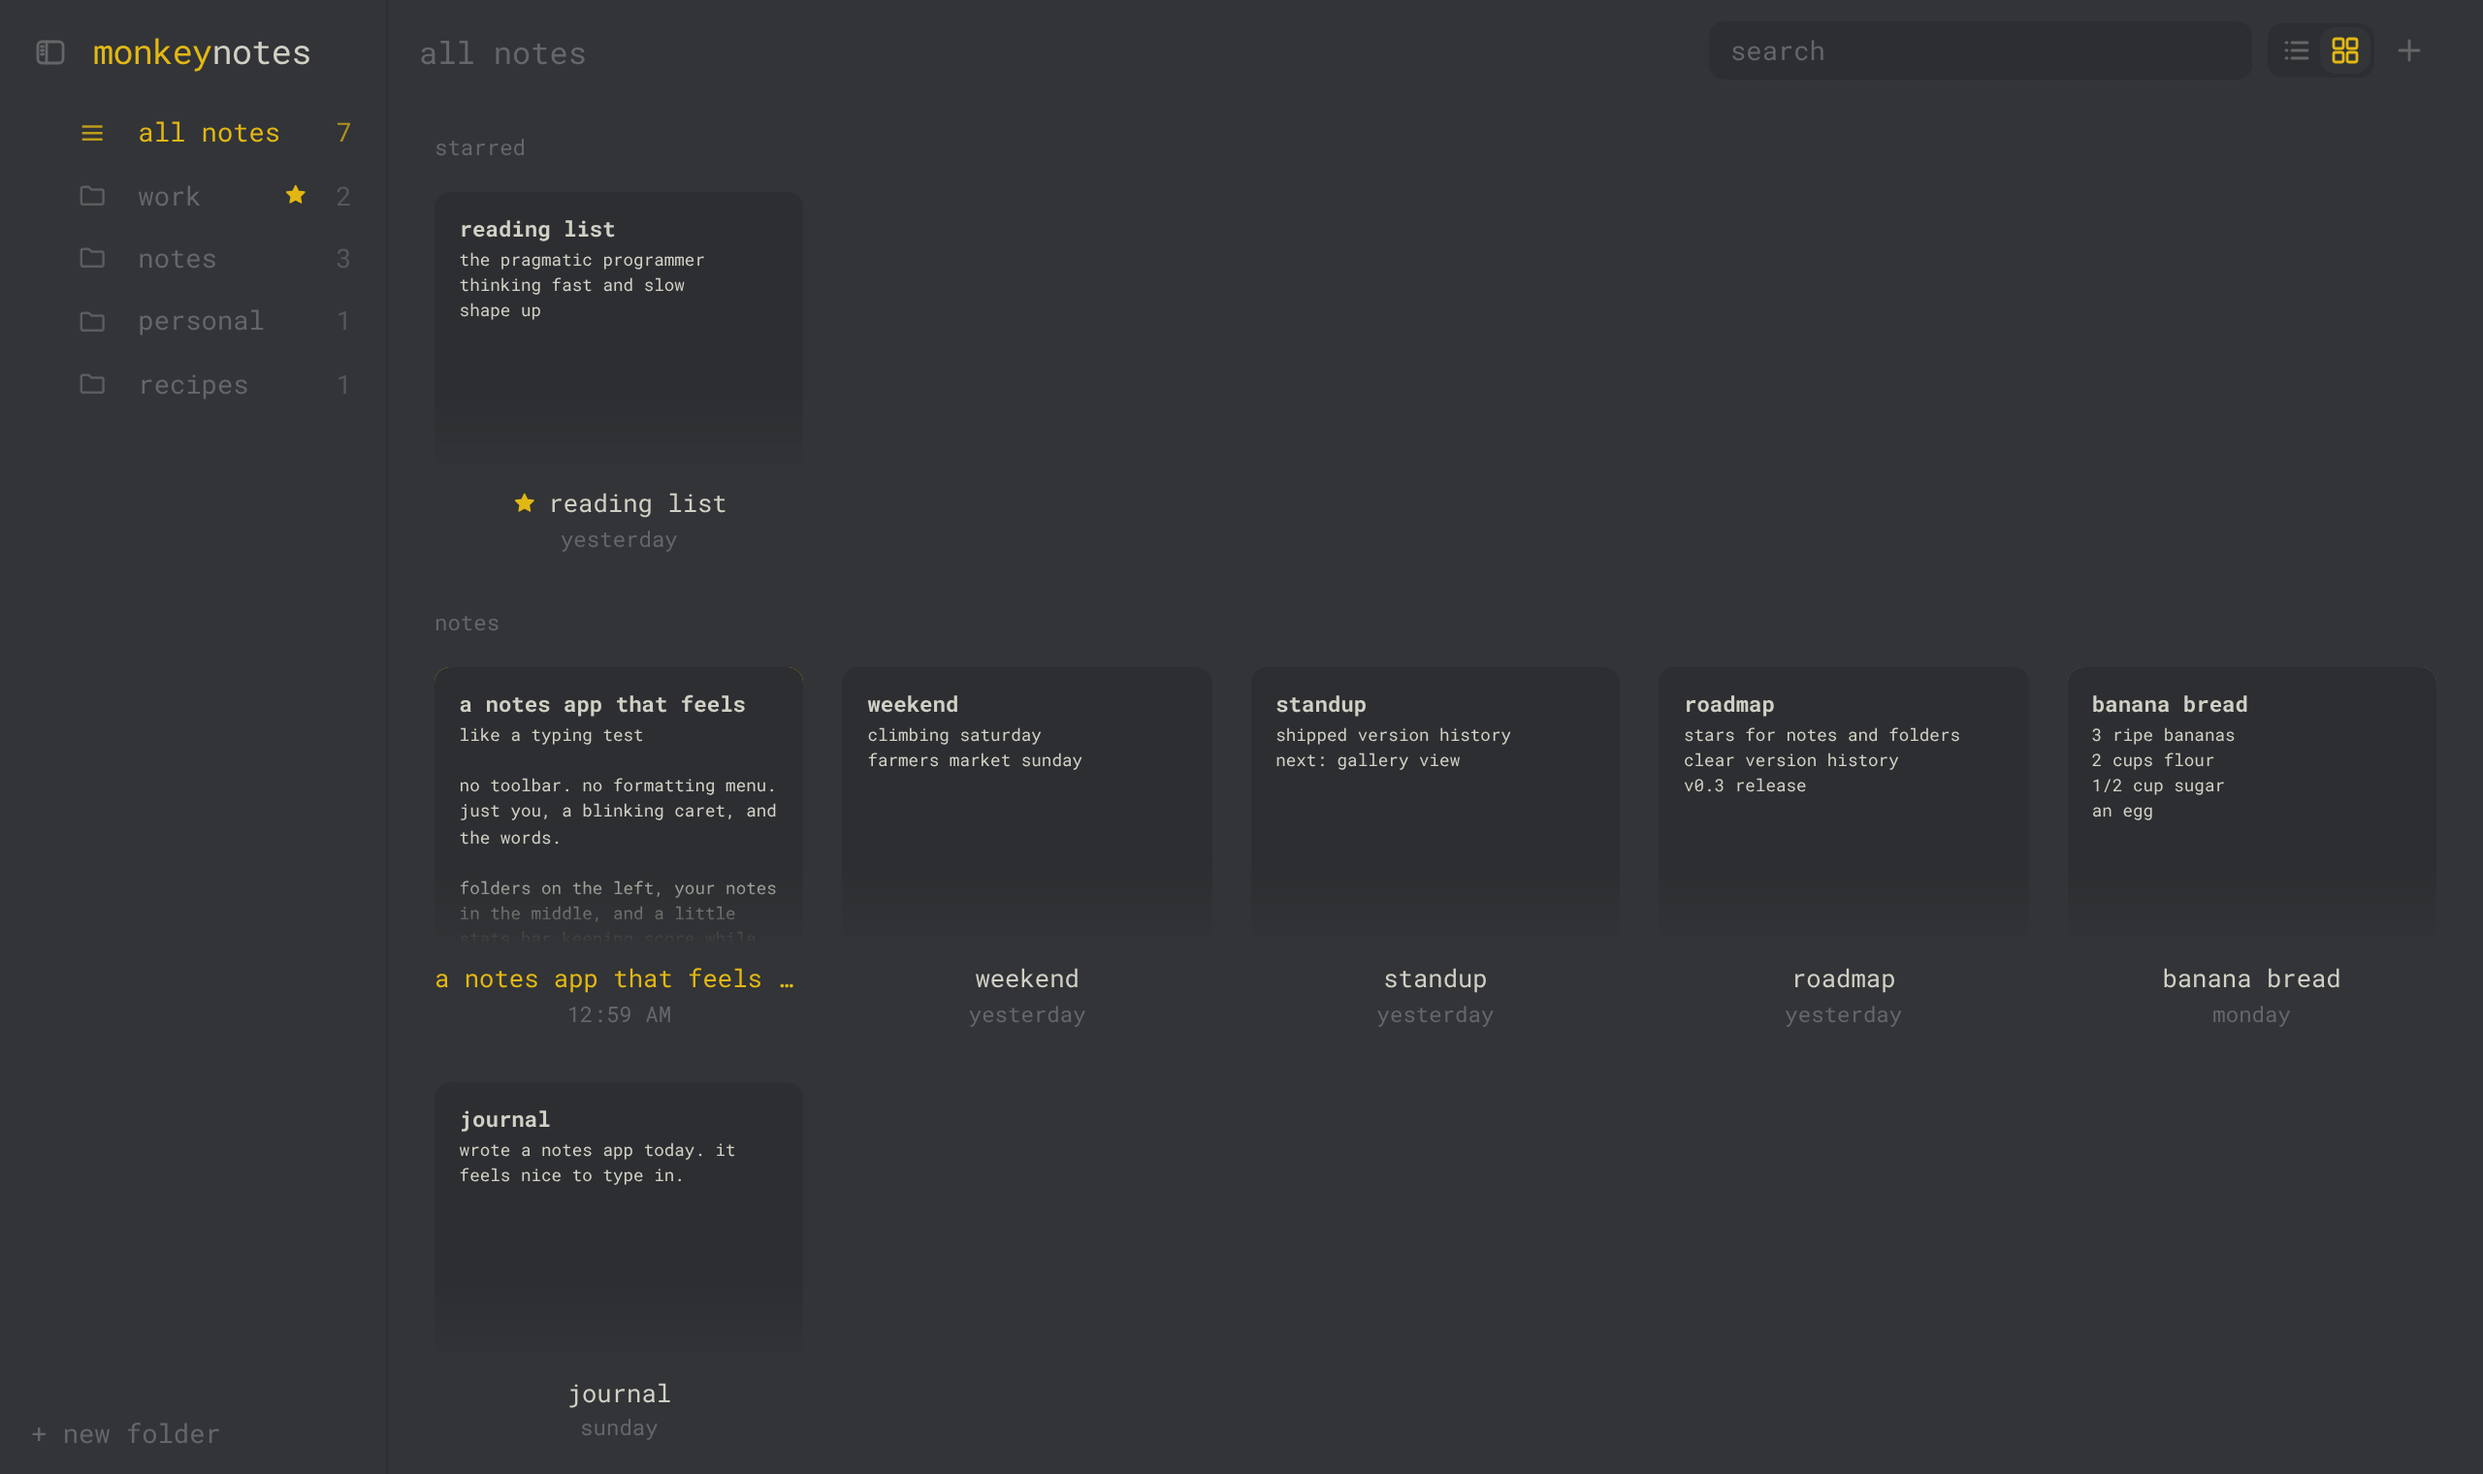
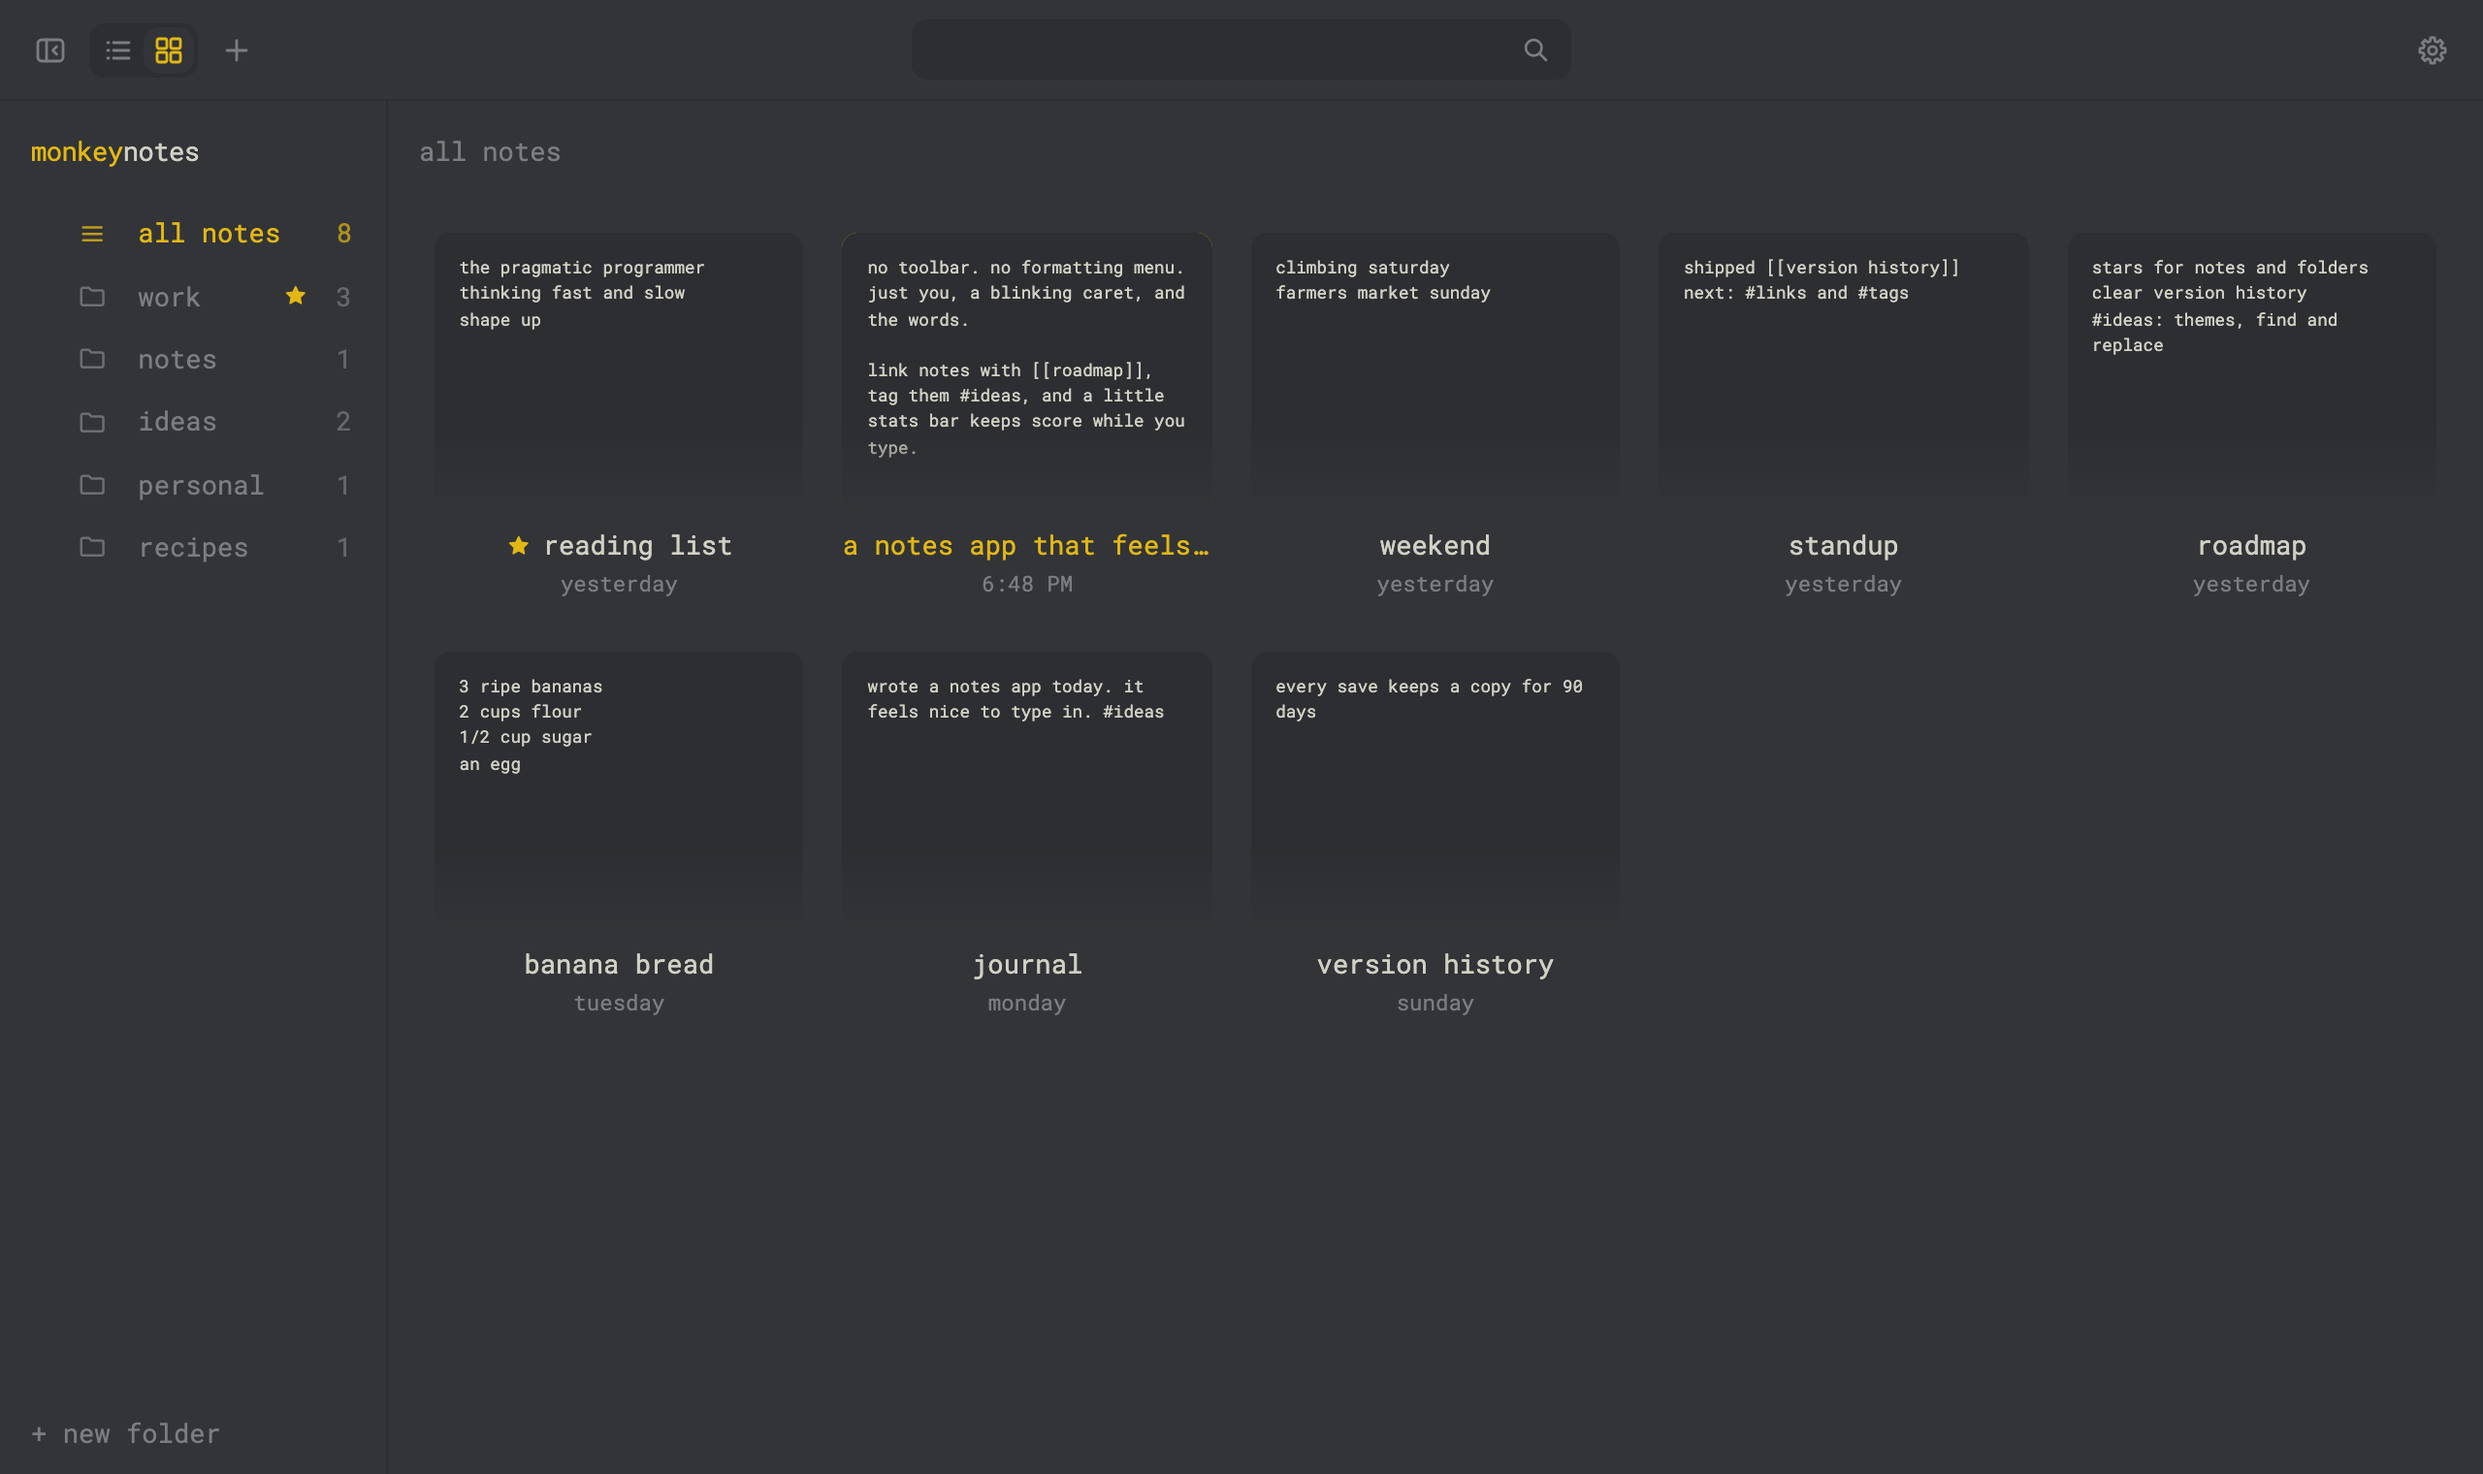
Fresh README screenshots showing links, tags and the [[ picker

diff --git a/scripts/screenshots.py b/scripts/screenshots.py
@@ -1,0 +1,93 @@
+"""Retake the README screenshots in docs/.
+
+Fills the browser version with sample notes, then snaps the list view, the
+gallery and the [[ link picker. Run `npm run dev` first, then:
+
+    pip install playwright && playwright install chromium
+    python3 scripts/screenshots.py
+"""
+import json, time, datetime, sys
+from playwright.sync_api import sync_playwright
+
+OUT = sys.argv[1] if len(sys.argv) > 1 else "docs"
+now = int(time.time() * 1000)
+H, D = 3600_000, 86400_000
+
+def f(body, ago):
+    return {"body": body, "created": now - ago - D, "modified": now - ago}
+
+MAIN = ("a notes app that feels like a typing test\n\n"
+        "no toolbar. no formatting menu. just you, a blinking caret, and the words.\n\n"
+        "link notes with [[roadmap]], tag them #ideas, and a little stats bar keeps score while you type.")
+
+files = {
+    "ideas/a notes app that feels like a typing test.md": f(MAIN, 60_000),
+    "ideas/weekend.md": f("weekend\nclimbing saturday\nfarmers market sunday", D),
+    "reading list.md": f("reading list\nthe pragmatic programmer\nthinking fast and slow\nshape up", D + 2 * H),
+    "work/standup.md": f("standup\nshipped [[version history]]\nnext: #links and #tags", D + 4 * H),
+    "work/roadmap.md": f("roadmap\nstars for notes and folders\nclear version history\n#ideas: themes, find and replace", D + 6 * H),
+    "recipes/banana bread.md": f("banana bread\n3 ripe bananas\n2 cups flour\n1/2 cup sugar\nan egg", 3 * D),
+    "personal/journal.md": f("journal\nwrote a notes app today. it feels nice to type in. #ideas", 4 * D),
+    "work/version history.md": f("version history\nevery save keeps a copy for 90 days", 5 * D),
+}
+meta = {"pinned": ["reading list.md"], "starredFolders": ["work"]}
+files[".monkeynotes.json"] = {"body": json.dumps(meta), "created": now, "modified": now}
+fs = {"files": files, "dirs": ["ideas", "work", "recipes", "personal"]}
+
+days = {}
+for i in range(9):
+    d = datetime.date.today() - datetime.timedelta(days=i)
+    days[d.isoformat()] = {"chars": 2200 if i == 0 else 3400, "ms": 25 * 60_000 if i == 0 else 25 * 60_000, "best": 41}
+
+def state(view_mode, path):
+    return json.dumps({"version": 2, "settingsRevision": 99,
+        "settings": {"viewMode": view_mode},
+        "view": {"folderId": "__all__", "notePath": path, "collapsed": []},
+        "stats": {"days": days}, "lastUpdateCheck": now})
+
+MAIN_PATH = "ideas/a notes app that feels like a typing test.md"
+
+def page_with(p, view_mode, path):
+    page = p.new_page(viewport={"width": 1280, "height": 760}, device_scale_factor=2)
+    page.add_init_script(
+        "if (!sessionStorage.getItem('seeded')) { localStorage.clear();"
+        f"localStorage.setItem('monkeynotes:fs', {json.dumps(json.dumps(fs))});"
+        f"localStorage.setItem('monkeynotes:state', {json.dumps(state(view_mode, path))});"
+        "sessionStorage.setItem('seeded', '1'); }")
+    page.goto("http://localhost:1420")
+    page.wait_for_selector(".note, .card")
+    page.wait_for_timeout(600)
+    return page
+
+def caret_end(page):
+    page.evaluate("(() => { const t = document.querySelector('#editor'); t.focus(); t.setSelectionRange(t.value.length, t.value.length); t.dispatchEvent(new Event('select')); })()")
+
+with sync_playwright() as p:
+    b = p.chromium.launch()
+
+    # 1. list view, caret at the end of the main note
+    page = page_with(b, "list", MAIN_PATH)
+    caret_end(page)
+    page.add_style_tag(content=".caret { animation: none !important; opacity: 1 !important; }")
+    page.wait_for_timeout(800)
+    page.screenshot(path=f"{OUT}/screenshot.png")
+    page.close()
+
+    # 2. gallery view
+    page = page_with(b, "grid", MAIN_PATH)
+    page.mouse.move(5, 700)
+    page.wait_for_timeout(500)
+    page.screenshot(path=f"{OUT}/gallery.png")
+    page.close()
+
+    # 3. the [[ link picker
+    page = page_with(b, "list", "work/standup.md")
+    caret_end(page)
+    page.keyboard.press("Enter")
+    page.keyboard.type("see [[", delay=40)
+    page.wait_for_timeout(200)
+    page.keyboard.type("ro", delay=60)
+    page.wait_for_timeout(500)
+    page.screenshot(path=f"{OUT}/links.png")
+    page.close()
+    b.close()

diff --git a/README.md b/README.md
@@ -6,6 +6,8 @@ A minimal, distraction-free desktop notes app. It's organized simply, like Apple
 
 <p align="center"><img src="docs/gallery.png" width="80%" alt="gallery view: notes as a grid of cards" /></p>
 
+<p align="center"><img src="docs/links.png" width="80%" alt="typing [[ opens a picker to link to another note" /></p>
+
 ## download
 
 No need to build anything. Grab the installer for your computer from the **[latest release](https://github.com/nathanksou/monkeynotes/releases/latest)**:
